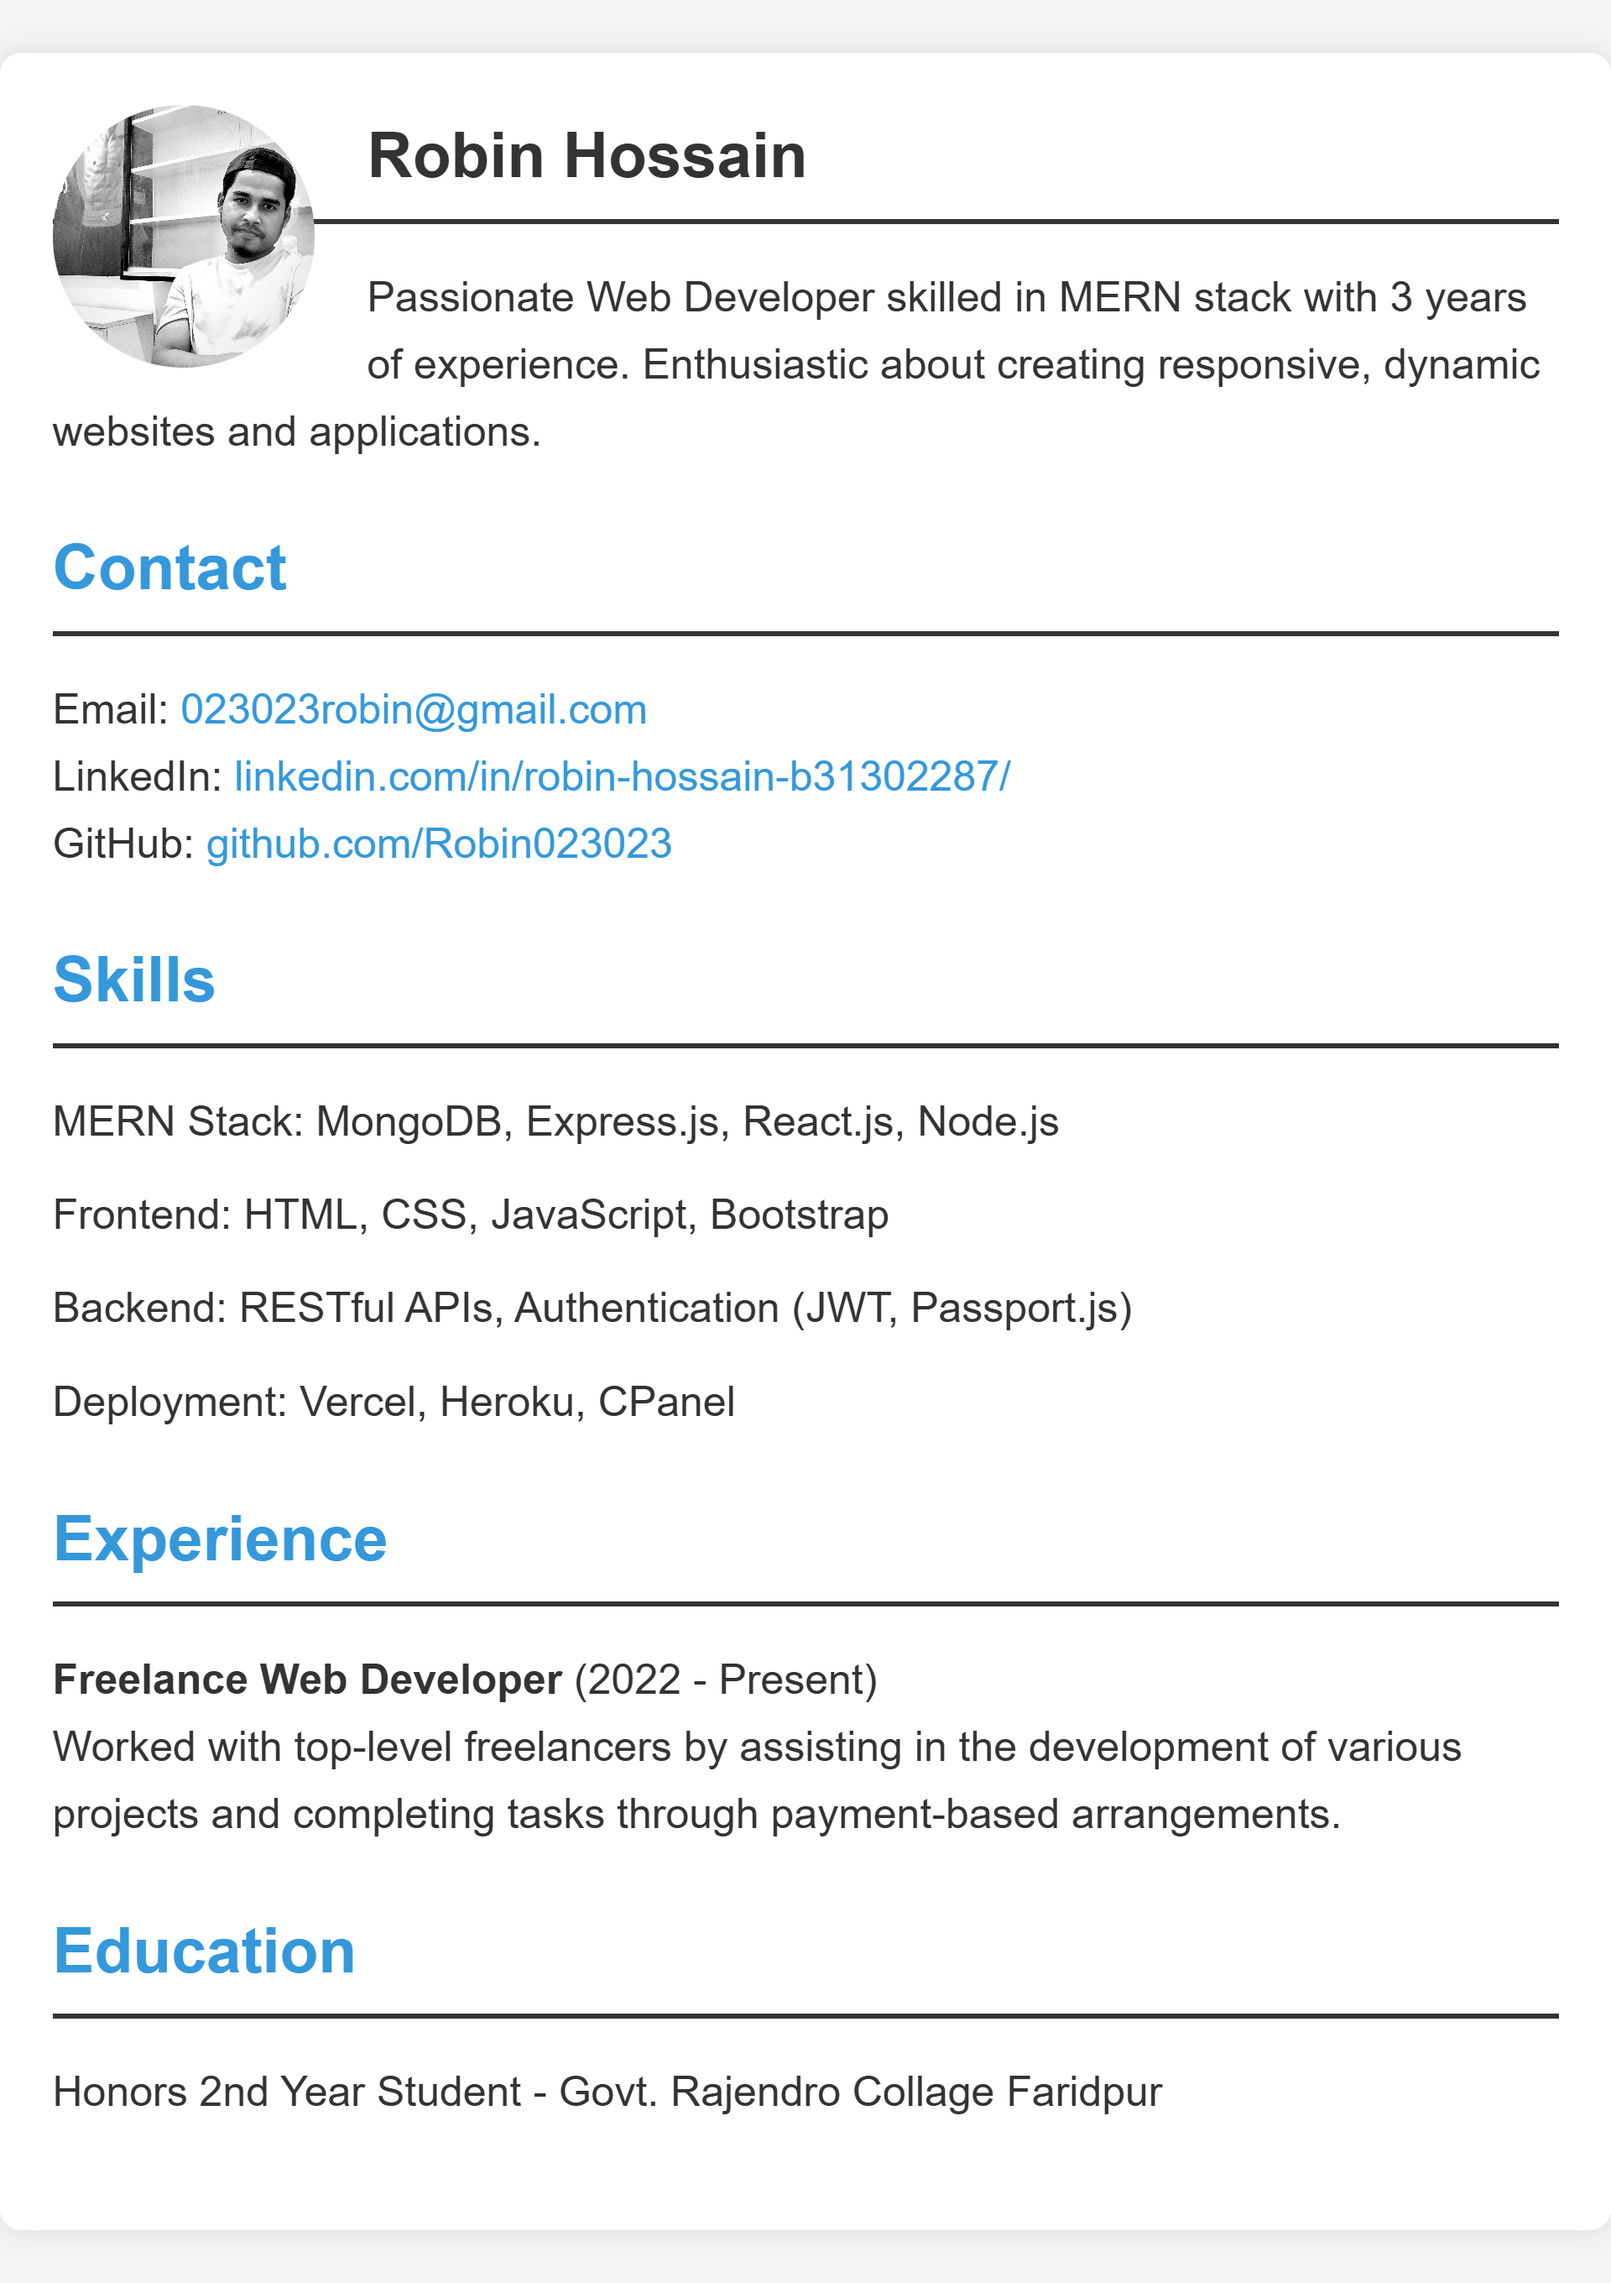
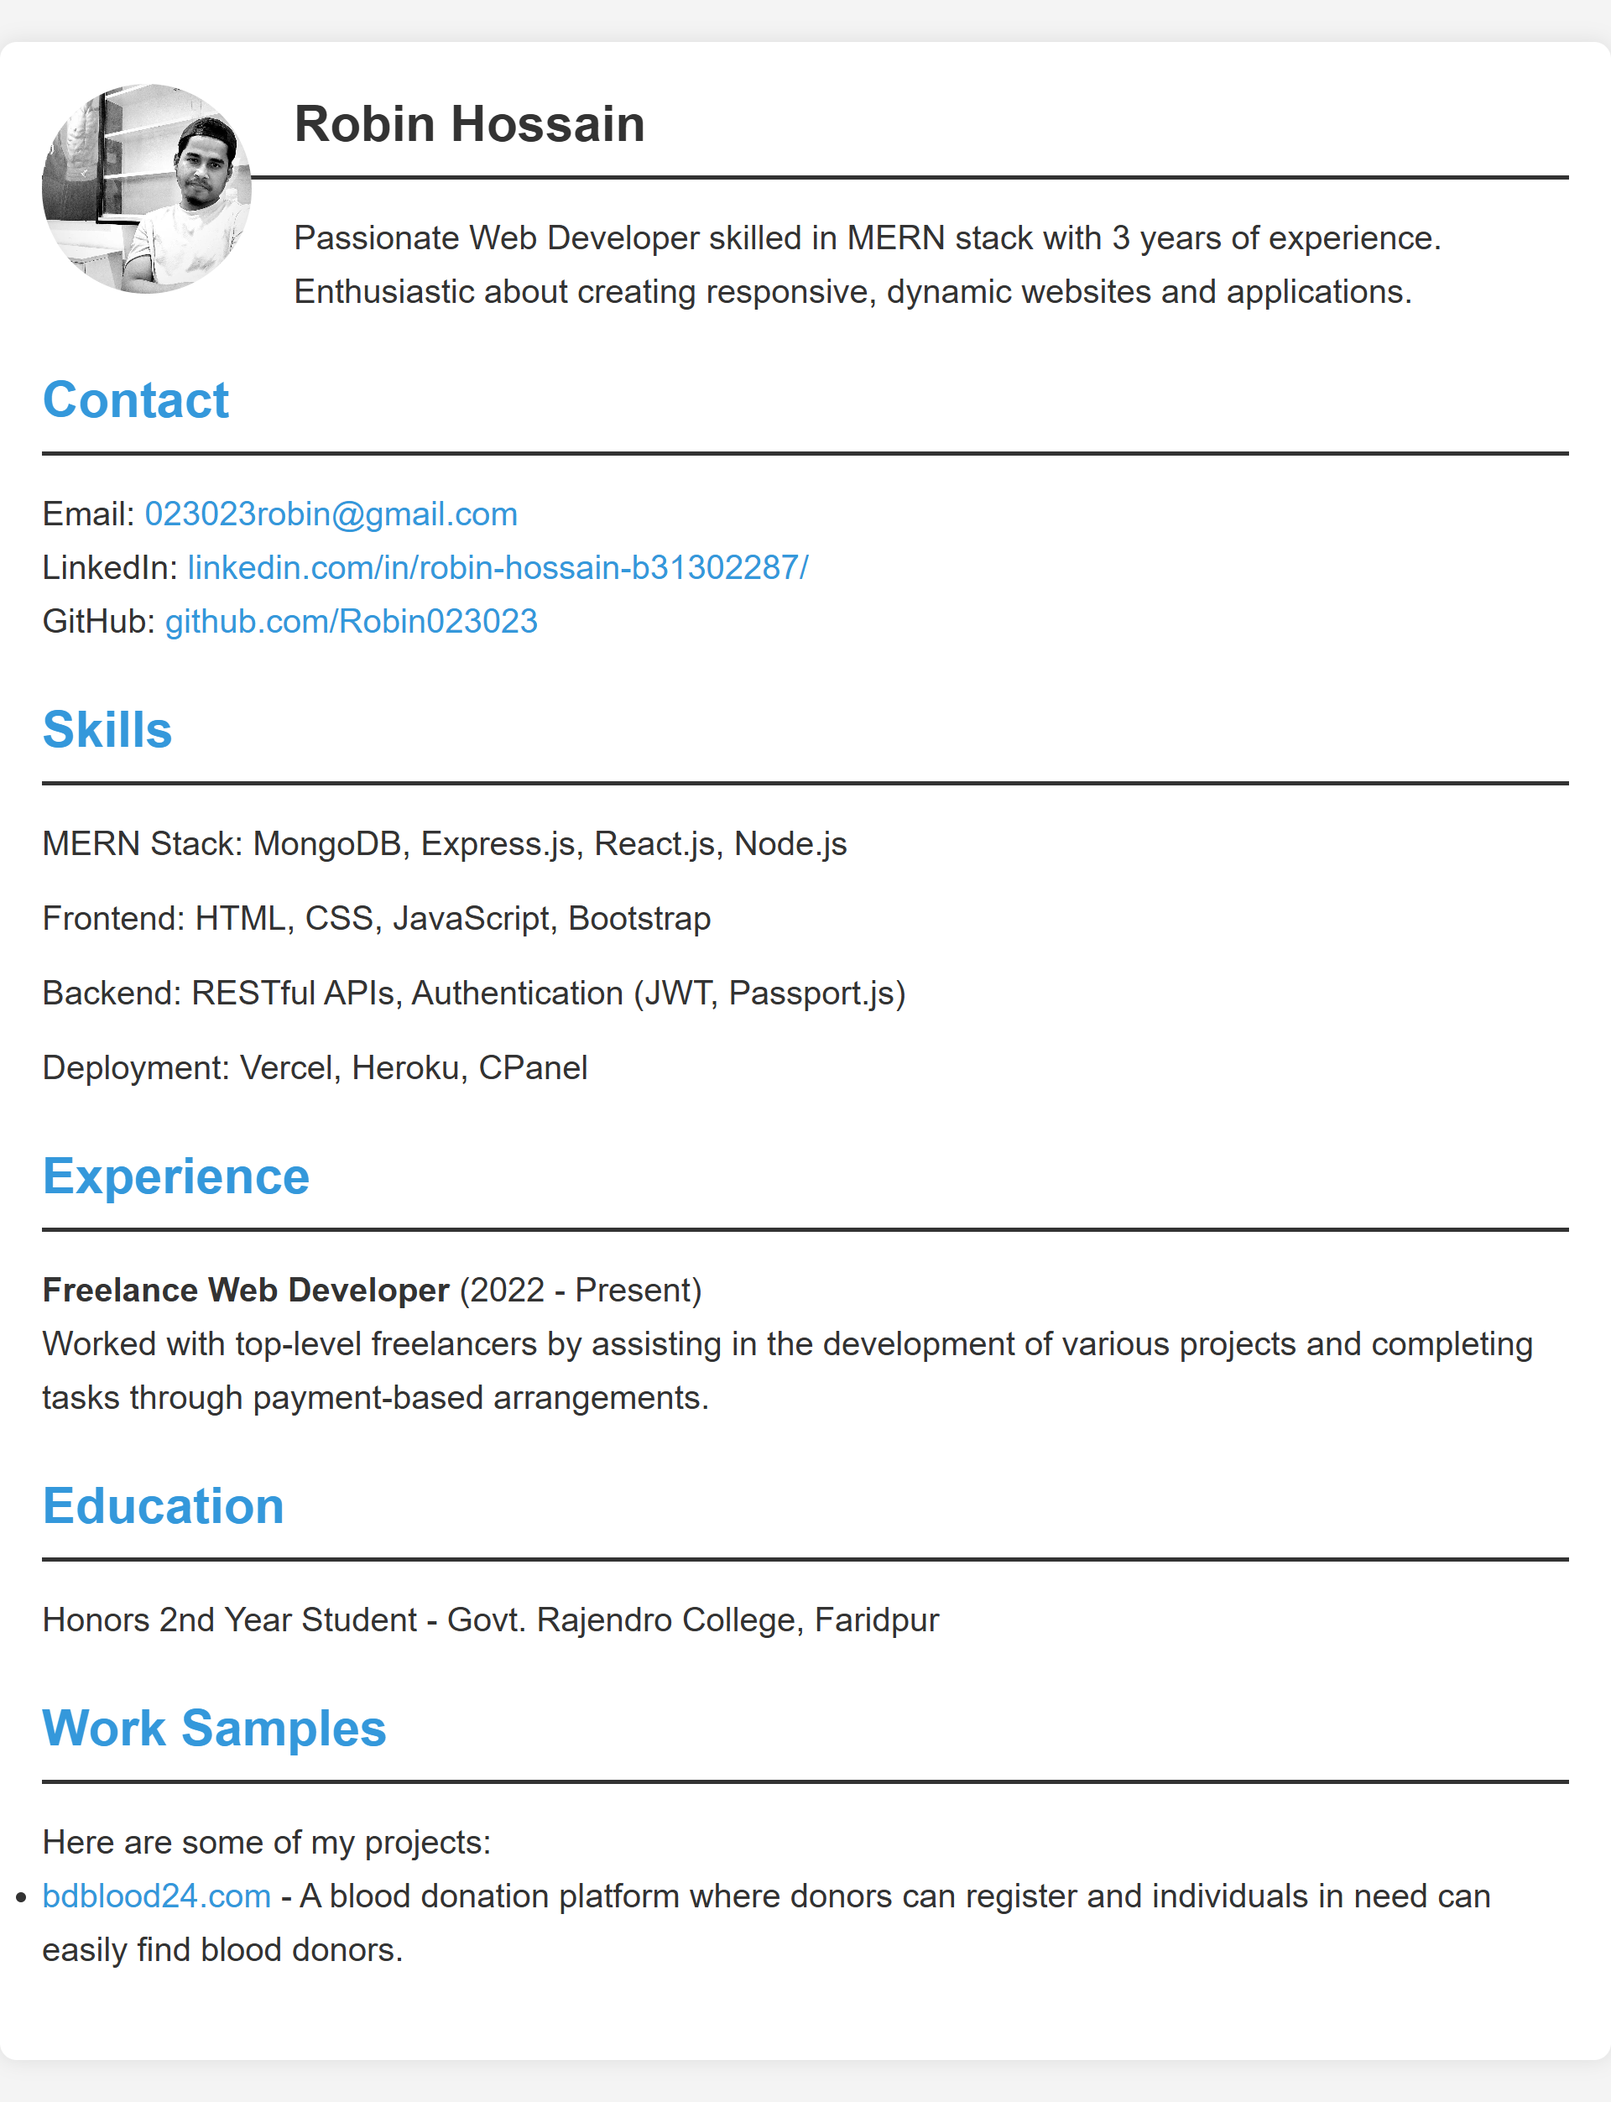
first commit

Changed region(s): [[0.0312, 0.0311, 0.9375, 0.9341]]

diff --git a/app/component/Project/project.module.css b/app/component/Project/project.module.css
@@ -1,5 +1,3 @@
-
-
 /* Container for the whole project page */
 .container {
   padding: 50px 60px;
@@ -187,4 +185,44 @@
 }
 }
 
+/* workSample.module.css */
+
+.workSampleContainer {
+  background-color: #f8f9fa; /* Light background color for contrast */
+  padding: 30px;
+  border-radius: 8px;
+  box-shadow: 0 4px 8px rgba(0, 0, 0, 0.1);
+  text-align: center;
+  max-width: 600px;
+  margin: 20px auto;
+}
+
+.workSampleTitle {
+  font-size: 2rem;
+  color: #333;
+  margin-bottom: 15px;
+  font-weight: bold;
+}
+
+.workSampleDescription {
+  font-size: 1rem;
+  color: #555;
+  margin-bottom: 20px;
+  line-height: 1.6;
+}
+
+.workSampleLink {
+  display: inline-block;
+  font-size: 1.1rem;
+  color: #fff;
+  background-color: #007bff; /* Button-like appearance */
+  padding: 10px 20px;
+  border-radius: 5px;
+  text-decoration: none;
+  transition: background-color 0.3s ease;
+}
+
+.workSampleLink:hover {
+  background-color: #0056b3;
+}
 

diff --git a/app/component/Project/page.js b/app/component/Project/page.js
@@ -52,6 +52,17 @@ const Projects = () => {
         ))}
       </div>
 
+      <div className={styles.workSampleContainer}>
+      <h1 className={styles.workSampleTitle}>Work Sample</h1>
+      <p className={styles.workSampleDescription}>
+  &quot;A platform built to connect blood donors with recipients, allowing users to search for donors based on blood type and location. Developed using Next.js for the frontend and Node.js with MongoDB for the backend, this project demonstrates skills in building user-friendly interfaces, handling authentication, and managing a database.&quot;
+</p>
+
+      <a className={styles.workSampleLink} href="https://bdblood24.com" target="_blank" rel="noopener noreferrer">
+        Visit bdblood24.com
+      </a>
+    </div>
+
       {isModalOpen && selectedProject && (
         <div className={styles.modal}>
           <div className={styles.modalContent}>
